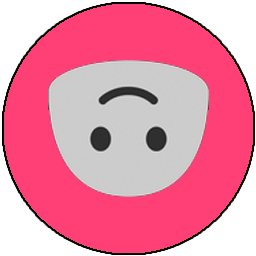
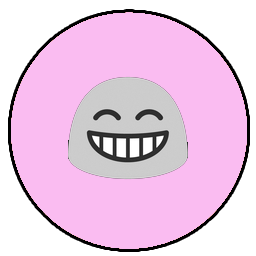
updated grpahics

diff --git a/widgets/DrinkScreen.py b/widgets/DrinkScreen.py
@@ -13,14 +13,14 @@ class DrinkScreen(Screen):
     Evaluating your performance
     """
 
-    # animation
-    def animate(self, id):
-        '''
-        Animate the arrival of the bullets
-        '''
-        animation = Animation(right=1070.0, opacity=1, d=3, t='out_elastic')
-        animation.cancel(id)
-        animation.start(id)
+    ## animation
+    #def animate(self, id):
+    #    '''
+    #    Animate the arrival of the bullets
+    #    '''
+    #    animation = Animation(right=1070.0, opacity=1, d=3, t='out_elastic')
+    #    animation.cancel(id)
+    #    animation.start(id)
 
     # set zero global variables
     # todo: is there a better OOP approach for this??
@@ -34,7 +34,7 @@ class DrinkScreen(Screen):
         for x in range(0, int(value)):
             wimg = Image(source=picpath + 'beer_round.png', mipmap= True)
             instance.grid1.add_widget(wimg)
-        DrinkScreen.animate(instance, instance.grid1)
+        #DrinkScreen.animate(instance, instance.grid1)
 
     def addwine(instance, value):
         """
@@ -46,7 +46,7 @@ class DrinkScreen(Screen):
         for x in range(0, int(value)):
             wimg = Image(source=picpath + 'wine.png', mipmap= True)
             instance.grid2.add_widget(wimg)
-        DrinkScreen.animate(instance, instance.grid2)
+        #DrinkScreen.animate(instance, instance.grid2)
 
     def addshot(instance, value):
         """
@@ -58,4 +58,4 @@ class DrinkScreen(Screen):
         for x in range(0, int(value)):
             wimg = Image(source=picpath + 'shot.png', mipmap= True)
             instance.grid3.add_widget(wimg)
-        DrinkScreen.animate(instance, instance.grid3)
+        #DrinkScreen.animate(instance, instance.grid3)

diff --git a/widgets/DestroyScreen.py b/widgets/DestroyScreen.py
@@ -48,7 +48,7 @@ class DestroyScreen(Screen):
         3: "powerless.png",
         4: "sleep.png",
         5: "normal.png",
-        6: "normal.png",
+        6: "sport.png",
         7: "vital.png",
         8: "superman2.png",
         9: "superman.png",
@@ -89,12 +89,12 @@ class DestroyScreen(Screen):
         1: "poop.png",
         2: "sad.png",
         3: "agressive.png",
-        4: "agressive.png",
+        4: "stressed.png",
         5: "normal.png",
-        6: "normal.png",
-        7: "normal.png",
-        8: "normal.png",
-        9: "skull.png",
+        6: "happy.png",
+        7: "excited.png",
+        8: "8.png",
+        9: "9.png",
         10: "skull.png"
         }
 
